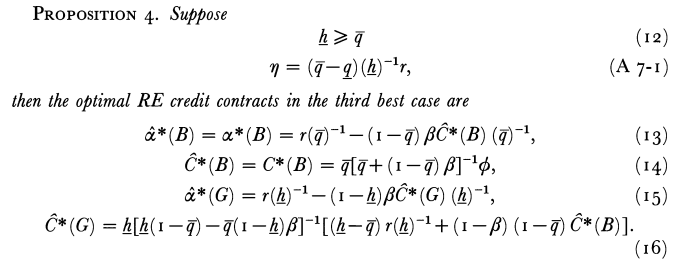
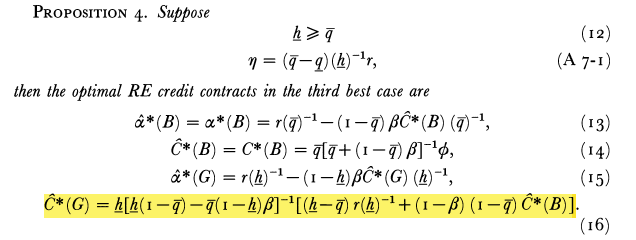
review edits 10/26

diff --git a/default-risk/index.html b/default-risk/index.html
@@ -177,7 +177,7 @@ layout: false
 1. The borrower choosing an incentive compatible action, a*
 
 ]
-.panel[.panel-name[Proposition 1]
+.panel[.panel-name[Prop 1]
 
 .pull-left[
 ![](img/prop12.png)
@@ -192,7 +192,7 @@ layout: false
 ]
 
 ]
-.panel[.panel-name[Proposition 2]
+.panel[.panel-name[Prop 2]
 
 .center[![:scale 80%](img/prop2.png)]
 
@@ -201,7 +201,7 @@ layout: false
 **Orgler (1970) found empirically that bank examiners classified secured loans as riskier.**
 
 ]
-.panel[.panel-name[Proposition 3]
+.panel[.panel-name[Prop 3]
 
 1. As the bank's marginal cost of funds rises, it must demand higher loan interest factors from both borrowers in order to continue to break even.  **"An increase in the riskless rate increases the loan interest factor of the good borrower and... that of the bad borrower."**
 
@@ -224,6 +224,15 @@ layout: false
 - From (A4) and (A5), it is implied that moral hazard is more severe for smaller values in the set.  **If eta is sufficiently large, moral hazard is moderate.**
 
 ]
+]
+.panel[.panel-name[Prop 4]
+
+.center[![](img/prop4.png)]
+
+- This case holds for a situation in which **moral hazard is moderate** (A7-1)
+- Between here and Proposition 1, only the specification of **the contract for the good borrower has changed**
+- The good borrower's contract now involves collateral because otherwise the bad borrower would covet this contract - **the presence of private information leads to a higher use of collateral in equilibrium contracts, and and introduction of collateral in all equilibrium contracts**
+
 ]
 ]
 
@@ -274,11 +283,11 @@ layout: false
 
 &gt; "Because private information may either accentuate or retard the positive relationship between collateral requirements and borrower risk encountered with just moral hazard, higher collateral may be posted by either safer or riskier borrowers.  **Moreover, borrower risk is endogenous and an outcome of the equilibrium.**"
 
-- Higher interest rates in the economy lead to both higher equilibrium loan interest rates and higher equilibrium collateral requirements
+- Higher interest rates in the economy lead to **both higher equilibrium loan interest rates and higher equilibrium collateral requirements**
 
-- A decline in the dissipative costs of collateral or an increase in the loan size lead to lower equilibrium collateral utilization
+- A decline in the dissipative costs of collateral or an increase in the loan size lead to **lower equilibrium collateral utilization**
 
-- Over half of all loans in the authors sample period were secured, with a temporal increase in secured lending
+- Over half of all loans in the authors sample period were secured, **with a temporal increase in secured lending**
 
 - Larger loans and loans of longer maturity also have less collateral
 
